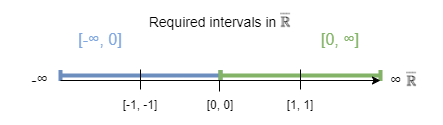
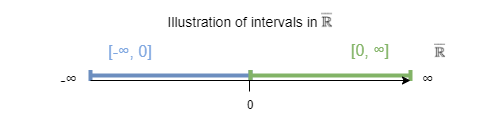
Added new and improved current illustration

diff --git a/README.md b/README.md
@@ -68,6 +68,8 @@ Similar, the indeterminate form of $0 \cdot -∞$ is:
 
 $0 \cdot -∞ = [-∞, 0]in$
 
+![](illustrations/visual_interval_number.png)
+
 ### Interval number operations
 
 *ToDo:*  
